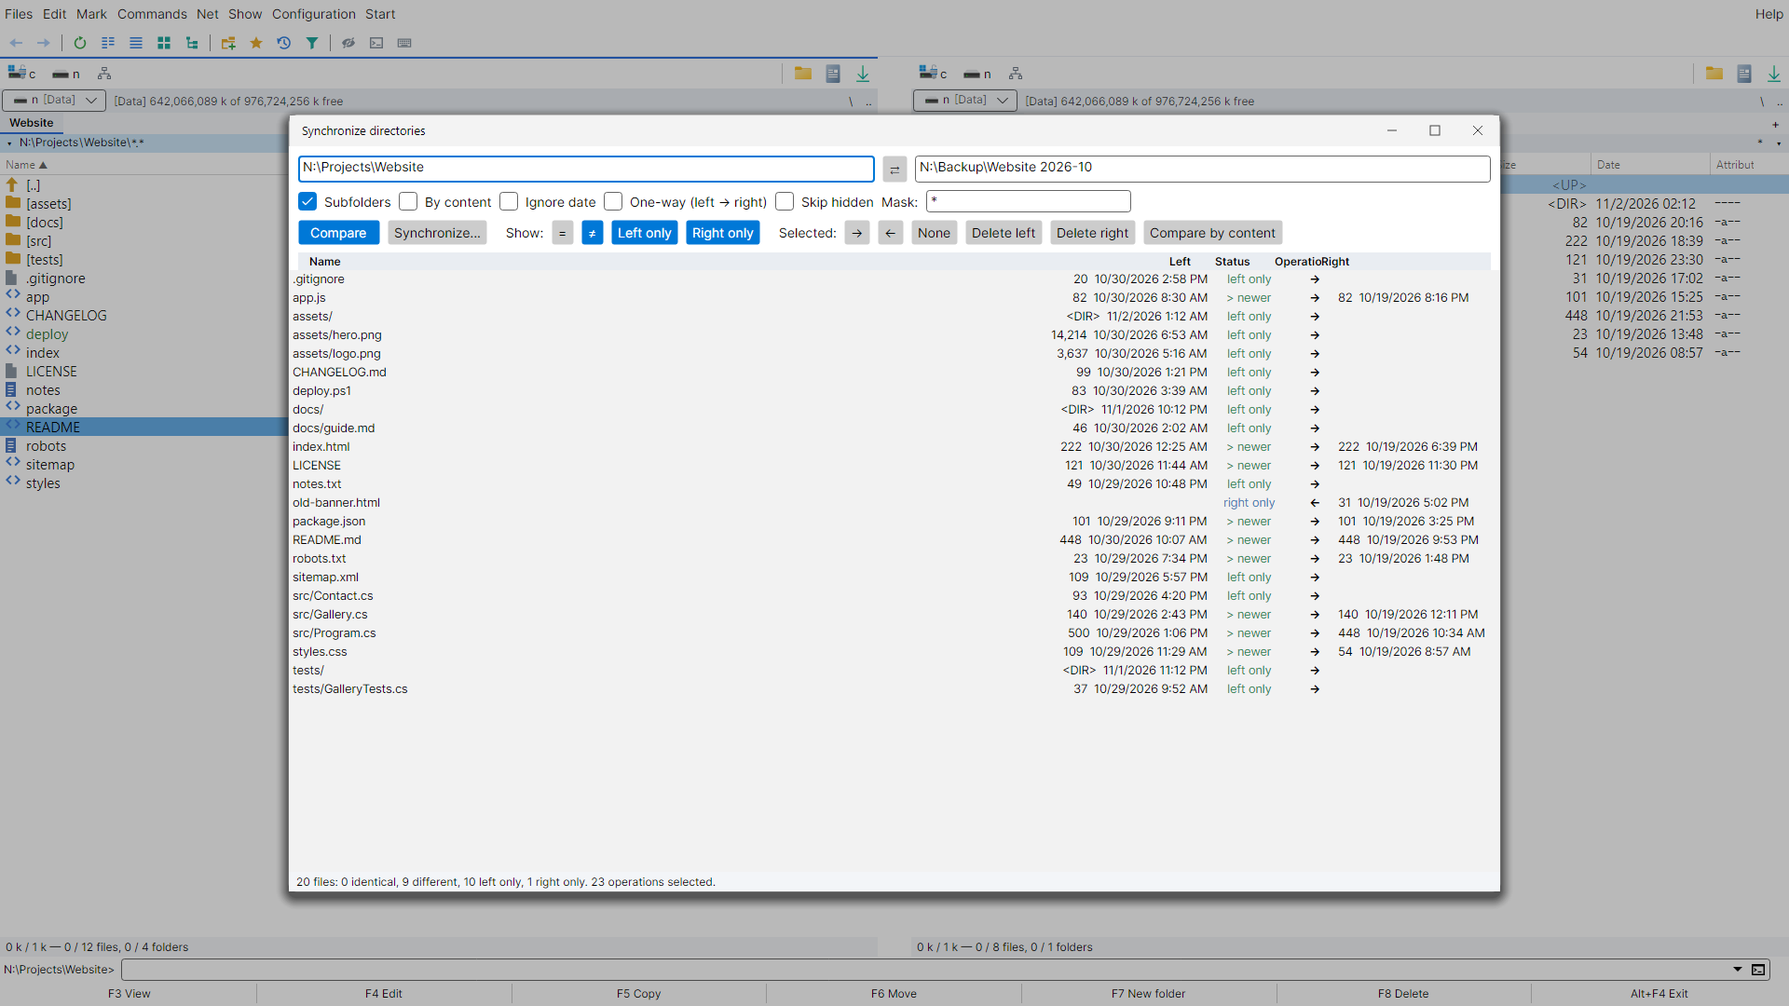
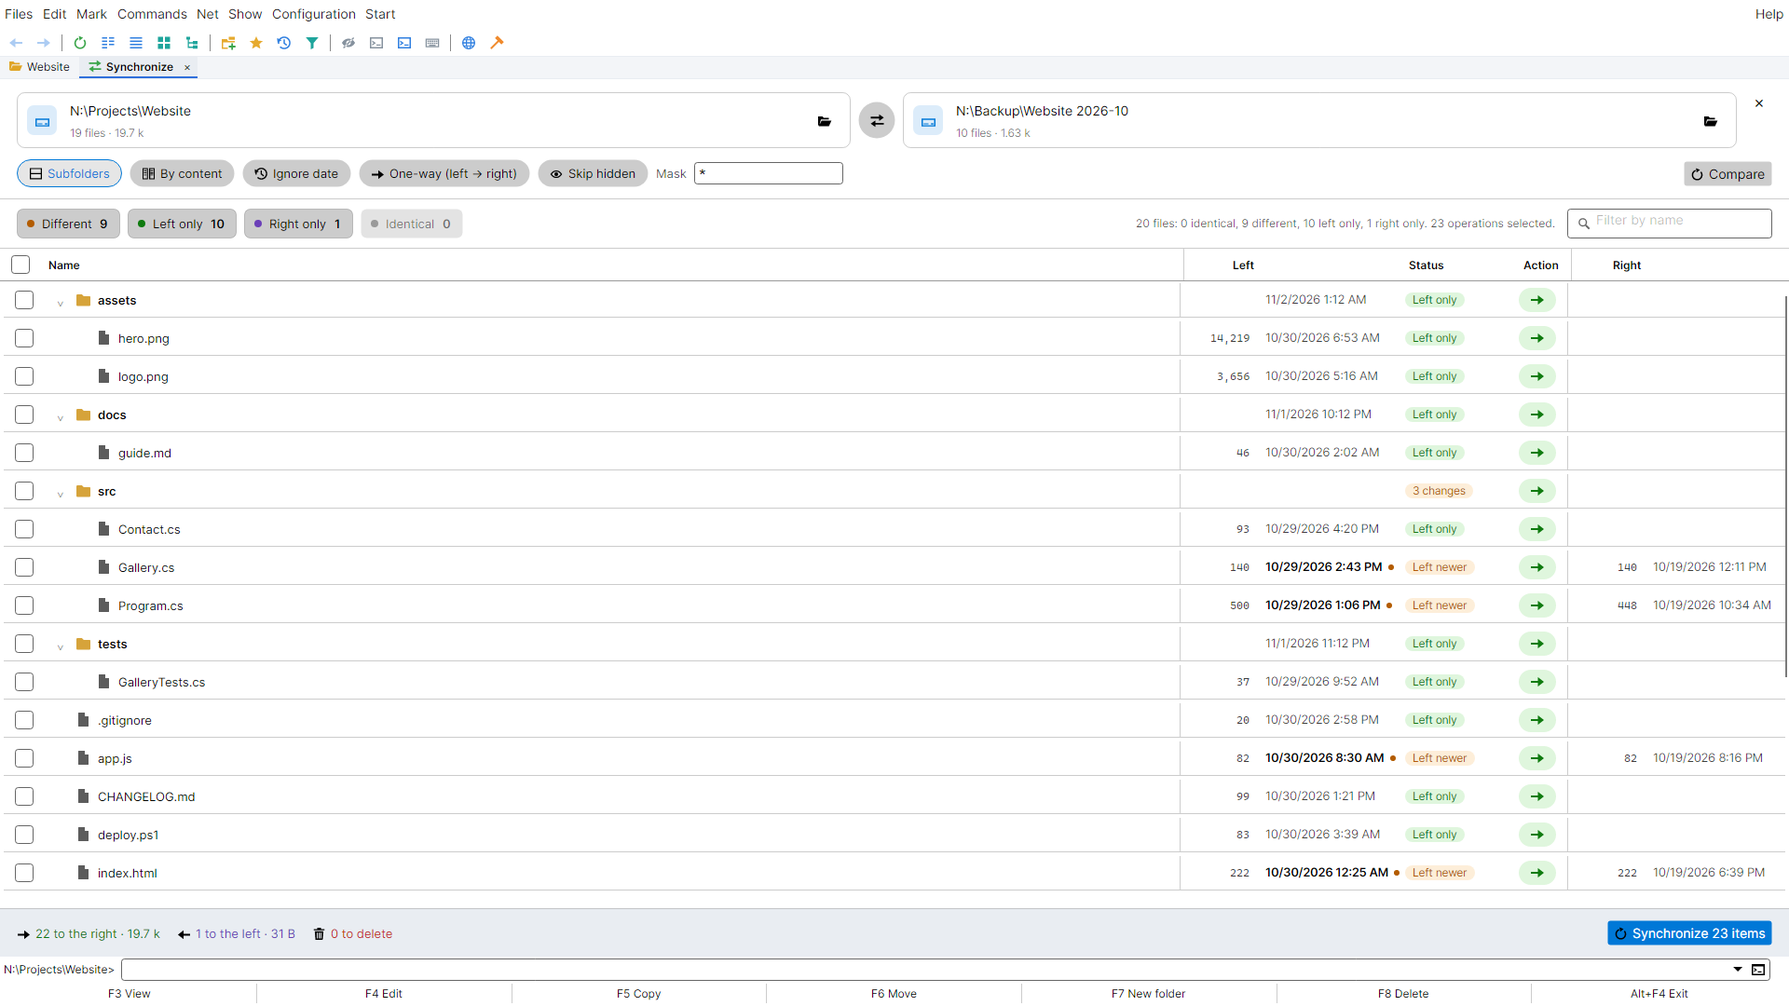
Synchronize directories as a page with its own tab and close buttons
- SyncDirsWindow becomes SyncDirsView (a UserControl) shown in place of the panels like the options and
  the maximized terminal: a "Synchronize" tab next to the files tab; the comparison stays open behind it
- closed by the tab's ×, its own × at the top right or Esc (the main window's shortcuts leave its keys alone)
- documentation screenshot of the page

diff --git a/src/NextCommander.App/Views/Tools/SyncDirsView.cs b/src/NextCommander.App/Views/Tools/SyncDirsView.cs
@@ -91,7 +91,7 @@ public sealed class SyncNode
 /// <item>Below: what will be copied and deleted, and Synchronize (a summary to confirm first).</item>
 /// </list>
 /// </summary>
-public sealed class SyncDirsWindow : Window
+public sealed class SyncDirsView : UserControl
 {
     private enum Look
     {
@@ -144,15 +144,10 @@ public sealed class SyncDirsWindow : Window
     /// <summary>The widths of the columns: check box, name, left size, left date, status, action, right size, right date.</summary>
     private const string Columns = "44,*,84,150,118,64,84,150";
 
-    public SyncDirsWindow(VfsPath left, VfsPath right, ToolContext context)
+    public SyncDirsView(VfsPath left, VfsPath right, ToolContext context)
     {
         _context = context;
-        Title = "Synchronize directories";
-        Width = 1180;
-        Height = 780;
-        MinWidth = 900;
-        MinHeight = 480;
-        WindowStartupLocation = WindowStartupLocation.CenterOwner;
+        Focusable = true;
         _leftPath.Text = left.ToDisplayString();
         _rightPath.Text = right.ToDisplayString();
         var o = context.Settings.SyncOptions;
@@ -186,14 +181,43 @@ public sealed class SyncDirsWindow : Window
         _all.Click += (_, _) => SelectAll(_all2.Any(r => !r.Item.IsDirectory && !_selected.Contains(r)));
 
         Content = BuildLayout();
-        Opened += async (_, _) =>
+        AttachedToVisualTree += async (_, _) =>
         {
+            // the first time it is shown: compare at once
+            if (_started)
+            {
+                return;
+            }
+            _started = true;
             _leftPath.Focus();
             await CompareAsync();
         };
-        Closed += (_, _) => _cts?.Cancel();
         ActualThemeVariantChanged += (_, _) => Render();
         UpdatePlan();
+    }
+
+    private bool _started;
+
+    /// <summary>The name of its tab in the main window.</summary>
+    public static string Title => "Synchronize directories";
+
+    /// <summary>Closed (its tab's ×, its own ×, Esc): the main window removes its page.</summary>
+    public event EventHandler? Closed;
+
+    /// <summary>Whether <see cref="Close"/> was called.</summary>
+    public bool IsClosed { get; private set; }
+
+    /// <summary>Stops a running comparison and closes the page.</summary>
+    public void Close()
+    {
+        if (IsClosed)
+        {
+            return;
+        }
+        IsClosed = true;
+        _cts?.Cancel();
+        _confirmed?.TrySetResult(false);
+        Closed?.Invoke(this, EventArgs.Empty);
     }
 
     /// <summary>The lines shown (the tree as filtered and opened).</summary>
@@ -245,8 +269,15 @@ public sealed class SyncDirsWindow : Window
         var options = new DockPanel();
         DockPanel.SetDock(compare, Dock.Right);
         options.Children.AddRange([compare, chips]);
+        var close = new Button { Content = "×", Classes = { "tabclose" }, FontSize = 18, Padding = new Thickness(8, 0), Margin = new Thickness(10, 0, 0, 0), VerticalAlignment = VerticalAlignment.Top };
+        ToolTip.SetTip(close, "Close (Esc)");
+        Avalonia.Automation.AutomationProperties.SetName(close, "Close");
+        close.Click += (_, _) => Close();
+        var pathRow = new DockPanel();
+        DockPanel.SetDock(close, Dock.Right);
+        pathRow.Children.AddRange([close, paths]);
         var top = new StackPanel { Spacing = 12, Margin = new Thickness(18, 14, 18, 12) };
-        top.Children.AddRange([paths, options]);
+        top.Children.AddRange([pathRow, options]);
 
         // the filters and the name filter
         var filters = new WrapPanel { ItemSpacing = 8, LineSpacing = 8, VerticalAlignment = VerticalAlignment.Center };
@@ -368,8 +399,12 @@ public sealed class SyncDirsWindow : Window
 
     private async Task BrowseAsync(TextBox path)
     {
-        var start = Resolve(path.Text) is { IsLocal: true } local ? await StorageProvider.TryGetFolderFromPathAsync(local.Path) : null;
-        var folders = await StorageProvider.OpenFolderPickerAsync(new FolderPickerOpenOptions { SuggestedStartLocation = start, AllowMultiple = false });
+        if (TopLevel.GetTopLevel(this)?.StorageProvider is not { } storage)
+        {
+            return;
+        }
+        var start = Resolve(path.Text) is { IsLocal: true } local ? await storage.TryGetFolderFromPathAsync(local.Path) : null;
+        var folders = await storage.OpenFolderPickerAsync(new FolderPickerOpenOptions { SuggestedStartLocation = start, AllowMultiple = false });
         if (folders.Count > 0 && folders[0].TryGetLocalPath() is { } chosen)
         {
             path.Text = chosen;
@@ -1072,7 +1107,7 @@ public sealed class SyncDirsWindow : Window
     {
         if (_list.SelectedItem is SyncNode { Row.Item: { Left: { IsDirectory: false } l, Right: { IsDirectory: false } r } })
         {
-            new CompareWindow(l, r, _context).Show(this);
+            new CompareWindow(l, r, _context).Show((Window)TopLevel.GetTopLevel(this)!);
         }
     }
 
@@ -1236,7 +1271,7 @@ public sealed class SyncDirsWindow : Window
             _ = CompareAsync();
             e.Handled = true;
         }
-        else if (e.Key == Key.A && e.KeyModifiers == KeyModifiers.Control && FocusManager?.GetFocusedElement() is not TextBox)
+        else if (e.Key == Key.A && e.KeyModifiers == KeyModifiers.Control && TopLevel.GetTopLevel(this)?.FocusManager?.GetFocusedElement() is not TextBox)
         {
             SelectAll(_all2.Any(r => !r.Item.IsDirectory && !_selected.Contains(r)));
             e.Handled = true;

diff --git a/src/NextCommander.App/Views/MainWindow.Workspace.cs b/src/NextCommander.App/Views/MainWindow.Workspace.cs
@@ -10,11 +10,12 @@ using NextCommander.Core.Vfs;
 
 namespace NextCommander.App.Views;
 
-/// <summary>A page of the main window: the two file panels, the options or the maximized internal terminal.</summary>
+/// <summary>A page of the main window: the two file panels, the options, synchronize directories or the maximized internal terminal.</summary>
 public enum WorkspacePage
 {
     Files,
     Options,
+    Sync,
     Terminal,
 }
 
@@ -42,6 +43,10 @@ public partial class MainWindow
             {
                 pages.Add(WorkspacePage.Options);
             }
+            if (Sync is not null)
+            {
+                pages.Add(WorkspacePage.Sync);
+            }
             if (IsTerminalMaximizedPage)
             {
                 pages.Add(WorkspacePage.Terminal);
@@ -62,6 +67,9 @@ public partial class MainWindow
         {
             case WorkspacePage.Options:
                 Settings?.Focus();
+                break;
+            case WorkspacePage.Sync:
+                Sync?.Focus();
                 break;
             case WorkspacePage.Terminal:
                 _terminal?.Activate();
@@ -92,6 +100,7 @@ public partial class MainWindow
         var terminalPage = _page == WorkspacePage.Terminal;
         PanelsGrid.IsVisible = !terminalPage;
         SettingsHost.IsVisible = _page == WorkspacePage.Options;
+        SyncHost.IsVisible = _page == WorkspacePage.Sync;
         if (IsTerminalMaximizedPage)
         {
             // the maximized terminal is shown on its own page only (the shells keep running)
@@ -147,6 +156,7 @@ public partial class MainWindow
         {
             WorkspacePage.Options => (MenuIcons.Create("nc_Config") ?? new Panel(), "Options", "Options", false),
             WorkspacePage.Terminal => (MenuIcons.Create("nc_MaximizeTerminal") ?? new Panel(), "Terminal", "Internal terminal", false),
+            WorkspacePage.Sync => (MenuIcons.Create("nc_SyncDirs") ?? new Panel(), "Synchronize", Tools.SyncDirsView.Title, false),
             _ => (LocationIcon(panel?.CurrentPath), panel?.Title ?? "?", panel?.CurrentPath?.ToDisplayString() ?? string.Empty, true),
         };
         icon.Width = 14;
@@ -167,7 +177,12 @@ public partial class MainWindow
                 Focusable = false,
                 Tag = page,
             };
-            ToolTip.SetTip(close, page == WorkspacePage.Options ? "Close the options (Esc)" : "Back to its place below the panels");
+            ToolTip.SetTip(close, page switch
+            {
+                WorkspacePage.Options => "Close the options (Esc)",
+                WorkspacePage.Sync => "Close (Esc)",
+                _ => "Back to its place below the panels",
+            });
             close.Click += (_, e) =>
             {
                 e.Handled = true;
@@ -201,11 +216,42 @@ public partial class MainWindow
             case WorkspacePage.Options:
                 Settings?.Close();
                 break;
+            case WorkspacePage.Sync:
+                Sync?.Close();
+                break;
             case WorkspacePage.Terminal:
                 RestoreTerminalSize();
                 ActiveView.FocusList();
                 break;
         }
+    }
+
+    /// <summary>Synchronize directories shown as a page (null: not open).</summary>
+    public Tools.SyncDirsView? Sync => SyncHost.Child as Tools.SyncDirsView;
+
+    /// <summary>
+    /// Synchronize directories in place of the panels, as a page of its own with a tab (like the options and the
+    /// maximized terminal); one already open is closed first. Its ×, its tab's × and Esc close it.
+    /// </summary>
+    public void ShowSync(Tools.SyncDirsView view)
+    {
+        Sync?.Close();
+        view.Closed += (_, _) =>
+        {
+            if (!ReferenceEquals(SyncHost.Child, view))
+            {
+                return;
+            }
+            SyncHost.Child = null;
+            var wasShown = _page == WorkspacePage.Sync;
+            ApplyPage();
+            if (wasShown)
+            {
+                ActiveView.FocusList();
+            }
+        };
+        SyncHost.Child = view;
+        SelectPage(WorkspacePage.Sync);
     }
 
     /// <summary>The files tab follows the folder of the active panel.</summary>

diff --git a/tests/NextCommander.App.Tests/WorkspaceTabsTests.cs b/tests/NextCommander.App.Tests/WorkspaceTabsTests.cs
@@ -133,6 +133,59 @@ public sealed class WorkspaceTabsTests : IDisposable
     }
 
     [AvaloniaFact]
+    public async Task Synchronize_directories_is_a_page_with_a_tab_and_close_buttons()
+    {
+        var (w, vm) = await _fx.OpenAsync();
+        var panels = w.FindControl<Grid>("PanelsGrid")!;
+        var sync = new Views.Tools.SyncDirsView(VfsPath.Local(_fx.L()), VfsPath.Local(_fx.R()), vm.Tools);
+        w.ShowSync(sync);
+        await SettleAsync(4);
+        Assert.Equal([WorkspacePage.Files, WorkspacePage.Sync], w.OpenPages);
+        Assert.Equal(WorkspacePage.Sync, w.CurrentPage);
+        Assert.True(sync.IsEffectivelyVisible);
+        Assert.Contains(Tabs(w)[1].GetVisualDescendants().OfType<TextBlock>(), t => t.Text == "Synchronize");
+        await sync.CompareAsync(); // compares at once like the window did
+        Assert.NotEmpty(sync.AllRows);
+        if (Environment.GetEnvironmentVariable("FM_SCREENSHOT_DIR") is { Length: > 0 } dir)
+        {
+            Directory.CreateDirectory(dir);
+            Avalonia.Headless.HeadlessWindowExtensions.CaptureRenderedFrame(w)!.SavePng(Path.Combine(dir, "sync-tab.png"));
+        }
+
+        // the files: the comparison stays behind its tab
+        Click(Tabs(w)[0]);
+        await SettleAsync();
+        Assert.True(panels.IsVisible);
+        Assert.False(sync.IsEffectivelyVisible);
+        Assert.Same(sync, w.Sync);
+
+        // the tab's ×
+        Click(Tabs(w)[1].GetVisualDescendants().OfType<Button>().Single(b => b.Classes.Contains("tabclose")));
+        await SettleAsync();
+        Assert.True(sync.IsClosed);
+        Assert.Null(w.Sync);
+        Assert.Equal([WorkspacePage.Files], w.OpenPages);
+
+        // its own × at the top right
+        var again = new Views.Tools.SyncDirsView(VfsPath.Local(_fx.L()), VfsPath.Local(_fx.R()), vm.Tools);
+        w.ShowSync(again);
+        await SettleAsync(4);
+        Click(again.GetVisualDescendants().OfType<Button>().Single(b => Equals(b.Content, "×")));
+        await SettleAsync();
+        Assert.Null(w.Sync);
+
+        // Esc in it (the main window's shortcuts leave its keys alone)
+        var third = new Views.Tools.SyncDirsView(VfsPath.Local(_fx.L()), VfsPath.Local(_fx.R()), vm.Tools);
+        w.ShowSync(third);
+        await SettleAsync(4);
+        third.Focus();
+        Press(w, Avalonia.Input.Key.Escape);
+        await SettleAsync();
+        Assert.Null(w.Sync);
+        Assert.Equal(WorkspacePage.Files, w.CurrentPage);
+    }
+
+    [AvaloniaFact]
     public void The_files_tab_shows_the_icon_of_the_place()
     {
         // a server: the product mark of the connection type; an archive: the archive icon; a plugin: the plugin icon

diff --git a/tests/NextCommander.App.Tests/Phase5Tests.cs b/tests/NextCommander.App.Tests/Phase5Tests.cs
@@ -67,8 +67,8 @@ public sealed class Phase5Tests : IDisposable
         await vm.ExecuteAsync("nc_SyncDirs");
         Assert.Equal(_fx.L(), _fx.Dialogs.LastSync!.Value.Left.Path);
 
-        var window = _fx.Track(new SyncDirsWindow(VfsPath.Local(_fx.L()), VfsPath.Local(_fx.R()), vm.Tools));
-        window.Show();
+        var window = new SyncDirsView(VfsPath.Local(_fx.L()), VfsPath.Local(_fx.R()), vm.Tools);
+        _fx.Track(new Avalonia.Controls.Window { Content = window, Width = 1180, Height = 780 }).Show();
         await window.CompareAsync();
         var a = window.AllRows.Single(r => r.Item.RelativePath == "a.txt");
         Assert.Equal(SyncStatus.LeftNewer, a.Item.Status);
@@ -186,9 +186,10 @@ public sealed class Phase5Tests : IDisposable
         await SettleAsync(4);
         rename.Apply(new MultiRenameOptions { NameMask = "[P]_[C]", CounterDigits = 3, Search = "txt", Replace = "md", SearchIncludesExtension = true });
         File.WriteAllText(_fx.R("a.txt"), "old");
-        var sync = _fx.Track(new SyncDirsWindow(VfsPath.Local(_fx.L()), VfsPath.Local(_fx.R()), vm.Tools));
+        var syncView = new SyncDirsView(VfsPath.Local(_fx.L()), VfsPath.Local(_fx.R()), vm.Tools);
+        var sync = _fx.Track(new Avalonia.Controls.Window { Content = syncView, Width = 1180, Height = 780 });
         sync.Show();
-        await sync.CompareAsync();
+        await syncView.CompareAsync();
         await SettleAsync();
 
         var dir = Environment.GetEnvironmentVariable("FM_SCREENSHOT_DIR");

diff --git a/tests/NextCommander.App.Tests/LocalizationSurveyTests.cs b/tests/NextCommander.App.Tests/LocalizationSurveyTests.cs
@@ -58,7 +58,7 @@ public sealed class LocalizationSurveyTests
                 new PackDialog("Pack \"a.txt\":", fx.R("a.zip"), NextCommander.Vfs.Archive.PackFormat.Zip),
                 new TransferManagerWindow(new Core.Operations.JobQueue()),
                 new FindFilesWindow(new FindFilesRequest(vm.Tools, fx.L(), null, false, (_, _) => Task.CompletedTask, _ => Task.CompletedTask)),
-                new SyncDirsWindow(VfsPath.Local(fx.L()), VfsPath.Local(fx.R()), vm.Tools),
+                new Window { Content = new SyncDirsView(VfsPath.Local(fx.L()), VfsPath.Local(fx.R()), vm.Tools) },
                 new DuplicatesWindow(new DuplicatesRequest(vm.Tools, [fx.L()], (_, _) => Task.CompletedTask, _ => Task.CompletedTask)),
                 new Window { Content = new DiskUsageView(new DiskUsageRequest(vm.Tools, VfsPath.Local(fx.L()), _ => Task.CompletedTask)) },
                 new MultiRenameWindow([(await vm.Left.GetEntryAsync(VfsPath.Local(fx.L("a.txt"))))!], vm.Tools, () => Task.CompletedTask),

diff --git a/tests/NextCommander.App.Tests/DocScreenshots.cs b/tests/NextCommander.App.Tests/DocScreenshots.cs
@@ -555,8 +555,15 @@ public sealed class DocScreenshots
         });
 
         // synchronize and compare
-        var sync = new SyncDirsWindow(VfsPath.Local(site), VfsPath.Local(D("Backup", "Website 2026-10")), vm.Tools);
-        await Shot(sync, "synchronize.png", 1300, 800, () => sync.CompareAsync());
+        // a page of the main window with its own tab
+        var sync = new SyncDirsView(VfsPath.Local(site), VfsPath.Local(D("Backup", "Website 2026-10")), vm.Tools);
+        w.ShowSync(sync);
+        await SettleAsync(6);
+        await sync.CompareAsync();
+        await SettleAsync(8);
+        Save(w, "synchronize.png");
+        sync.Close();
+        await SettleAsync(3);
         var reader = new LocalEntryReader();
         var compare = new CompareWindow(reader.Read(D("Backup", "Website 2026-10", "src", "Program.cs")), reader.Read(code), vm.Tools);
         await Shot(compare, "compare.png", 1300, 800, async () => await WaitUntilAsync(() => compare.Comparing is { IsCompleted: true }));

diff --git a/src/NextCommander.App/Services/DialogService.cs b/src/NextCommander.App/Services/DialogService.cs
@@ -157,7 +157,14 @@ public sealed class DialogService : IDialogService
     public void ShowMultiRename(IReadOnlyList<VfsEntry> entries, ToolContext context, Func<Task> refresh) =>
         ShowTool(new Views.Tools.MultiRenameWindow(entries, context, refresh));
 
-    public void ShowSyncDirs(VfsPath left, VfsPath right, ToolContext context) => ShowTool(new Views.Tools.SyncDirsWindow(left, right, context));
+    /// <summary>Synchronize directories as a page (tab) of the main window.</summary>
+    public void ShowSyncDirs(VfsPath left, VfsPath right, ToolContext context)
+    {
+        if (RequireOwner() is Views.MainWindow main)
+        {
+            main.ShowSync(new Views.Tools.SyncDirsView(left, right, context));
+        }
+    }
 
     public void ShowDuplicates(DuplicatesRequest request) => ShowTool(new Views.Tools.DuplicatesWindow(request));
 

diff --git a/src/NextCommander.App/Views/MainWindow.axaml.cs b/src/NextCommander.App/Views/MainWindow.axaml.cs
@@ -905,7 +905,8 @@ public partial class MainWindow : Window
 
         // the connection manager in a panel and the configuration take their keys (Ctrl+F, Ctrl+N, Delete, Esc ...)
         if (focused is Avalonia.Visual inside && (Avalonia.VisualTree.VisualExtensions.FindAncestorOfType<Connections.ConnectionManagerView>(inside, includeSelf: true) is not null
-            || Avalonia.VisualTree.VisualExtensions.FindAncestorOfType<Dialogs.SettingsView>(inside, includeSelf: true) is not null))
+            || Avalonia.VisualTree.VisualExtensions.FindAncestorOfType<Dialogs.SettingsView>(inside, includeSelf: true) is not null
+            || Avalonia.VisualTree.VisualExtensions.FindAncestorOfType<Tools.SyncDirsView>(inside, includeSelf: true) is not null))
         {
             return;
         }

diff --git a/CLAUDE.md b/CLAUDE.md
@@ -55,7 +55,7 @@ The remote integration tests are skipped unless `FM_TEST_FTP` / `FM_TEST_SFTP` /
 - `src/NextCommander.App`: the Avalonia UI.
   - `MainWindow`, `PanelSideView` → `FilePanelView` → `PathBarView`; `ViewModels/*` (`MainWindowViewModel` + `.Menus.cs`).
   - `Services/ConnectionMenus.cs`: `ConnectionMenus` the saved connections grouped by type (Net > Saved connections; the connection manager's button of the button bar is a drop-down with the manager and them when there are saved connections, `nc_ConnectionsMenu` opens it); `PluginMenus` the Plugins button (`nc_PluginsMenu`: the plugins' entry points and the plugin list; shown only while plugins are loaded and `ShowPluginsButton` is on). `ButtonBarControl.DropDownOf` tells these buttons apart; settings version 7 removes the version 6 `nc_ConnectionsMenu` button and adds `nc_PluginsMenu`. The connection manager always opens in place of the left panel (user's request, 15 November 2026).
-  - `Views/MainWindow.Workspace.cs`: the pages of the main window (`WorkspacePage`: Files, Options, Terminal; user's request, 15 November 2026). The options (`SettingsHost` over the panels) and the maximized terminal are pages of their own; with more than one page open the tab strip `WorkspaceTabsHost` shows them (the files tab: the active panel's folder and `LocationIcon` of its place). `SelectPage` / `ApplyPage` set what is visible; the maximized terminal is hidden (not stopped) on the other pages and `FitMaximizedTerminal` sizes it below the top bars. `nc_SwitchWorkspaceTab` goes round the pages.
+  - `Views/MainWindow.Workspace.cs`: the pages of the main window (`WorkspacePage`: Files, Options, Sync, Terminal; user's request, 15 November 2026). The options (`SettingsHost` over the panels), synchronize directories (`SyncHost`, `Views/Tools/SyncDirsView` — a UserControl since 15 November 2026, `ShowSync`; its own × and Esc close it) and the maximized terminal are pages of their own; with more than one page open the tab strip `WorkspaceTabsHost` shows them (the files tab: the active panel's folder and `LocationIcon` of its place). `SelectPage` / `ApplyPage` set what is visible; the maximized terminal is hidden (not stopped) on the other pages and `FitMaximizedTerminal` sizes it below the top bars. `nc_SwitchWorkspaceTab` goes round the pages.
   - `Views/Connections/ConnectionManagerWindow` (+ `.Editor.cs`): the connection manager (tree of folders and connections, the editor tabs per type); `Core/Config/ConnectionFolders` (folder paths in `RemoteConnection.Folder`, `AppSettings.ConnectionFolders`), `ConnectionChecks`, `ConnectionImport` (FileZilla / WinSCP). Remote side: `SshAgent` (OpenSSH agent pipe, Pageant, SSH_AUTH_SOCK), jump hosts in `SshLogin`, `AwsSso`, `AzureEntra`.
   - Tool windows (Lister, editor, find files, multi-rename, synchronize, compare, duplicate files `DuplicatesWindow`, folder sizes `DiskUsageWindow` + `Controls/TreemapControl`; in the core `Tools/DiskUsage.cs` scan and `TreemapLayout`).
   - `Services/Icons/`: `BrandIcons.cs` (connection type icons; cloud product marks as vectors), `Flags.cs` (vector flags of the language list), `IconPacks.cs` (the icon pack in use: glyphs and colors of the built-in icons), `FileKinds.cs`, `DriveIconConverter.cs`, `SystemFolderIcons.cs` (the operating system's icon of the user folders (`KnownFolders.KindOf`: home, documents, downloads, desktop, pictures, music, videos) on tabs, file list, tree and drive bar: Windows shell icon, Linux icon theme (`FreedesktopIconTheme`, SVG drawn with Svg.Skia), macOS NSWorkspace).

diff --git a/docs/guide/tools.md b/docs/guide/tools.md
@@ -121,7 +121,9 @@ Renames many files at once. The list shows the old and new names live as you typ
 
 ## Synchronize directories
 
-*Commands > Synchronize directories...* compares two folders and makes them equal.
+*Commands > Synchronize directories...* compares two folders and makes them equal. It opens in place of the panels as a
+page of its own, with a **Synchronize** tab next to the files tab: the files tab takes you back to the panels while the
+comparison stays open; the tab's `×`, the `×` at its top right or Esc close it.
 
 ![Synchronize directories](../screenshots/synchronize.png)
 
